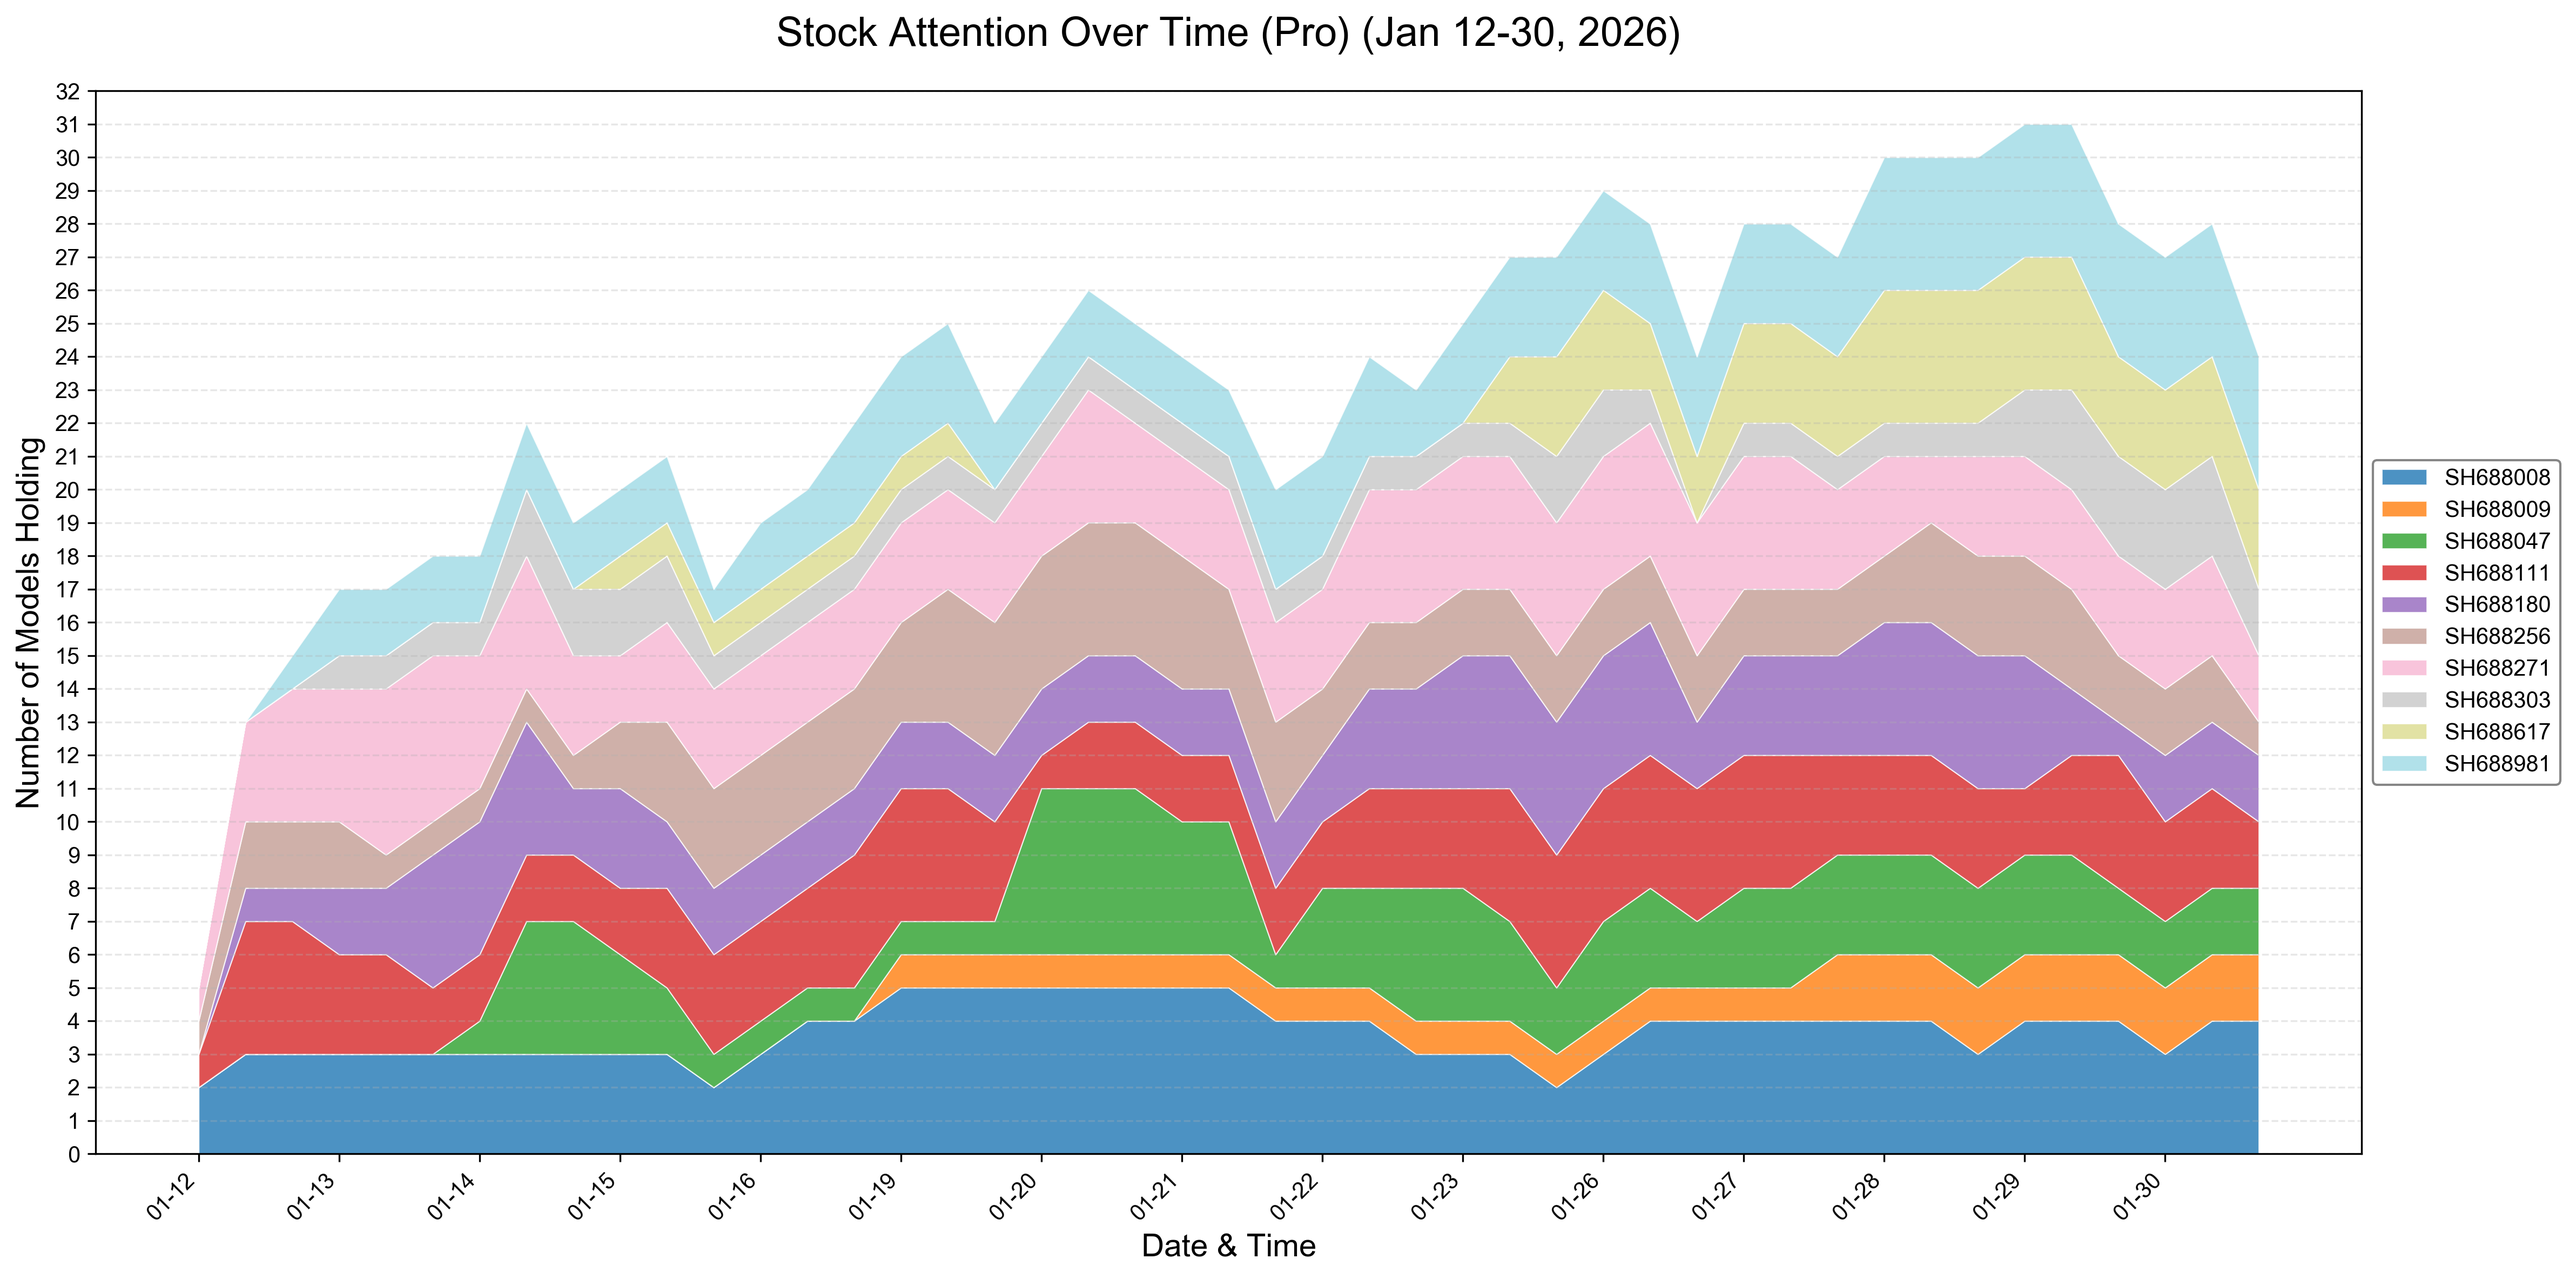
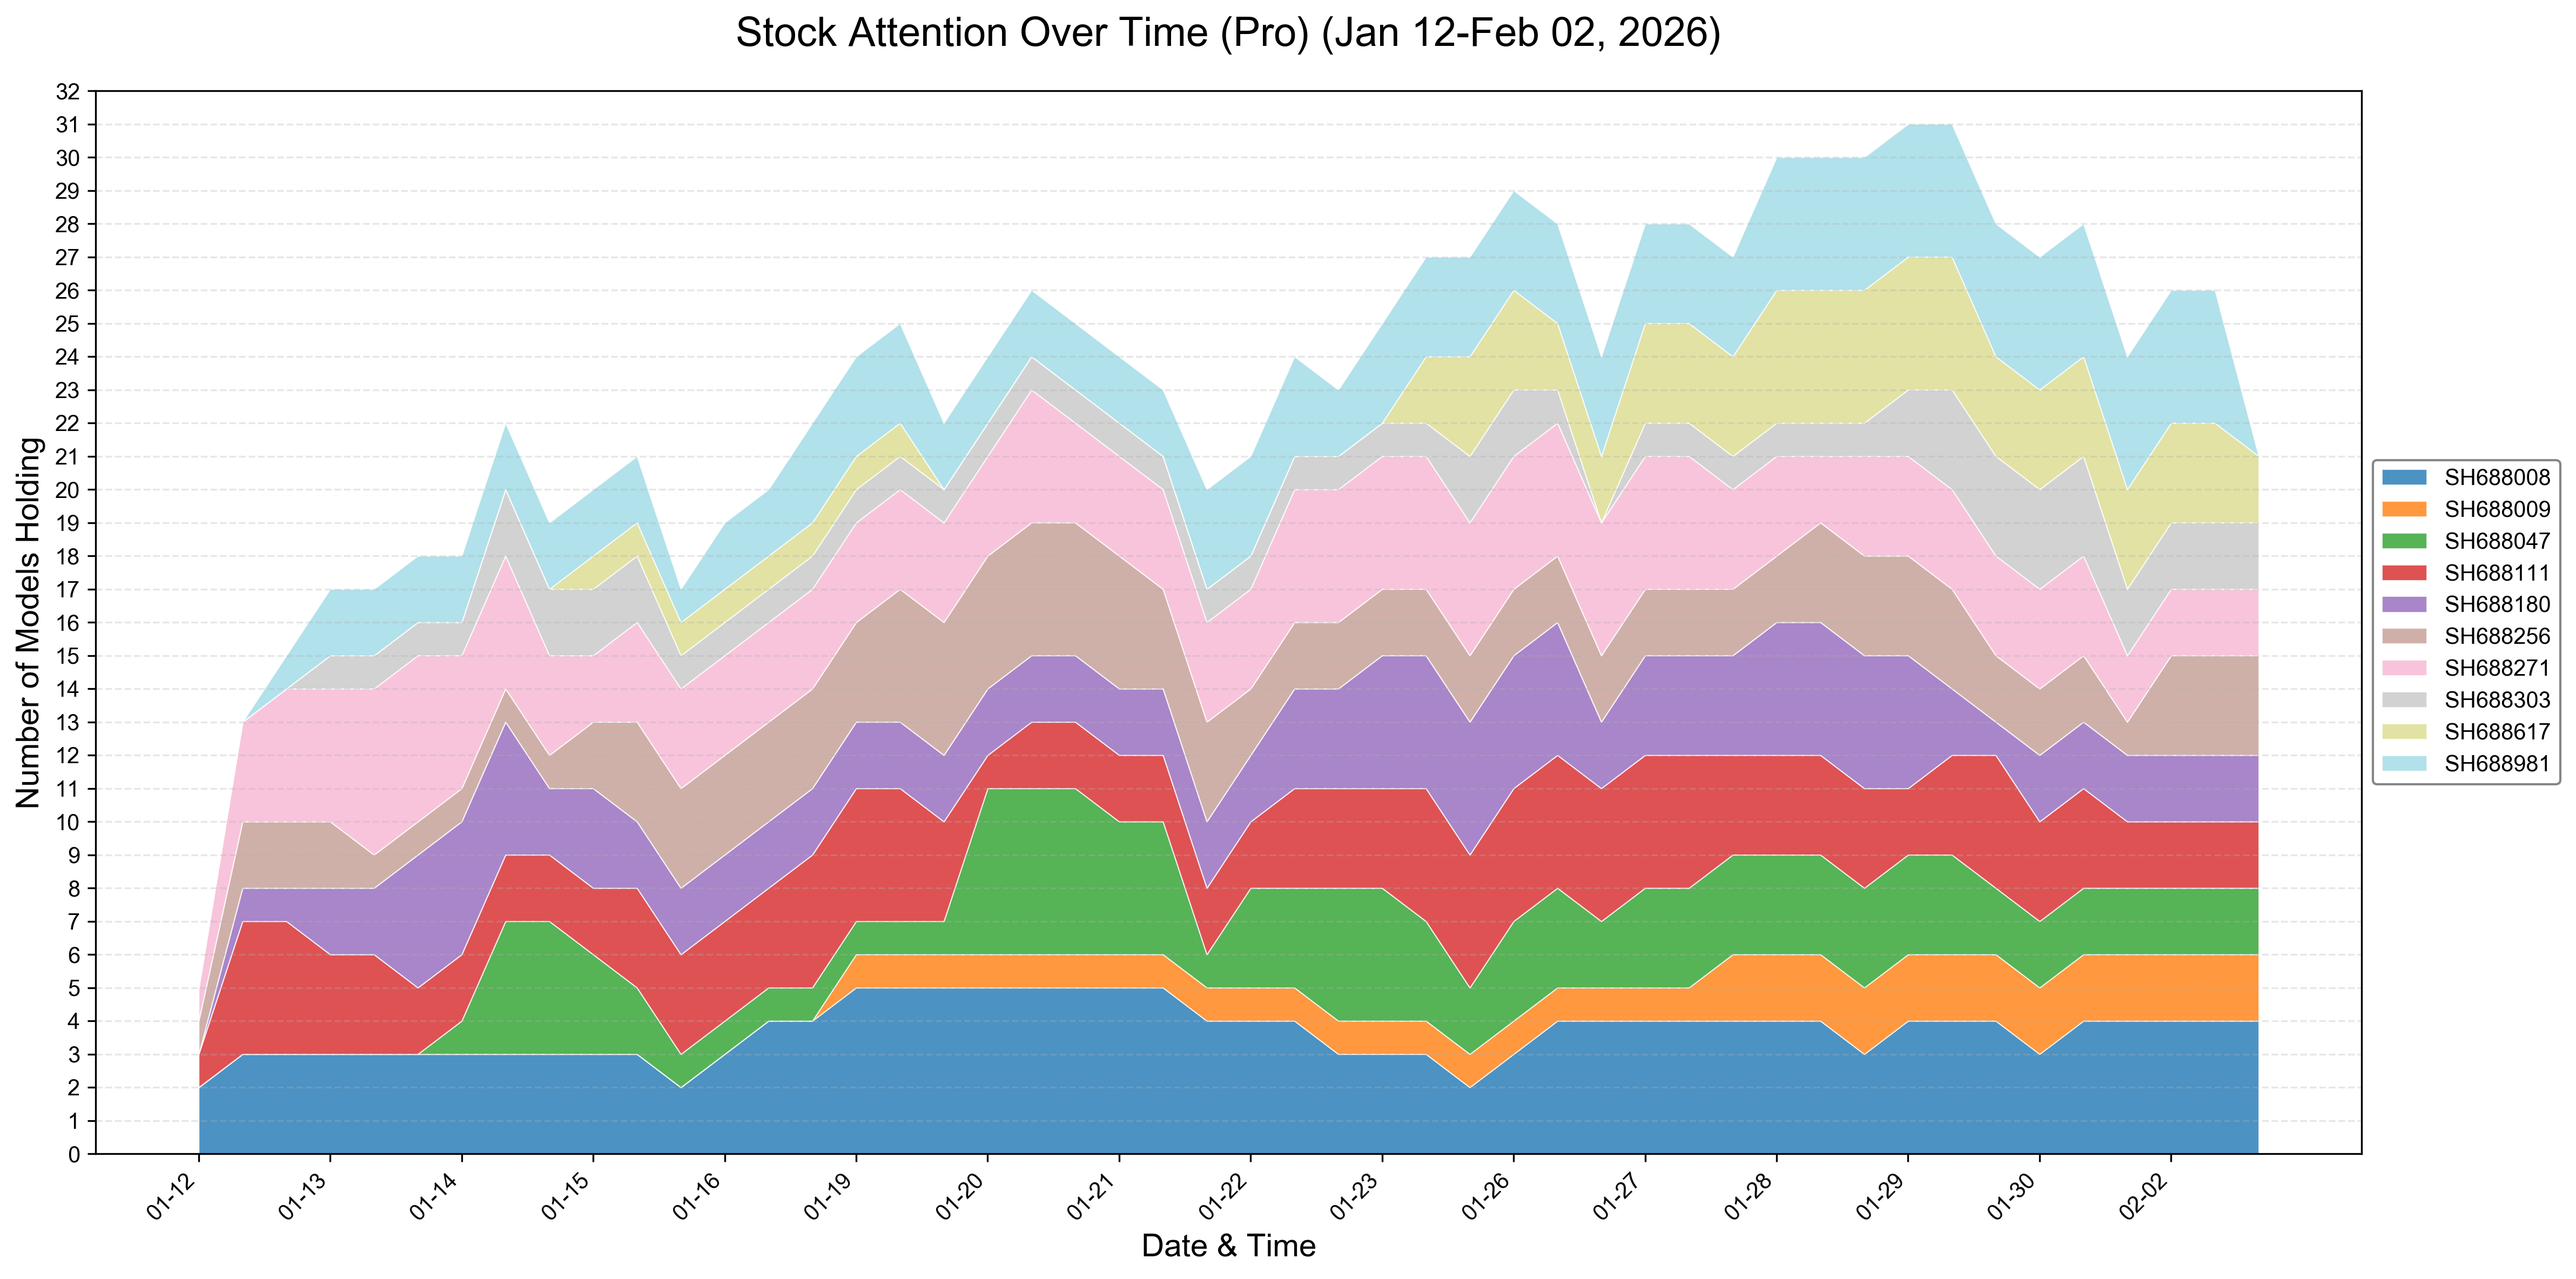
2.2

diff --git a/experiments/visualizations/performance_summary.md b/experiments/visualizations/performance_summary.md
@@ -2,8 +2,8 @@
 
 | Model | Latest Return | Max Return | Min Return | Volatility |
 |-------|---------------|------------|------------|------------|
-| Claude Haiku 4.5 | -3.09% | 0.23% | -5.43% | 1.24% |
-| DeepSeek Chat | -1.58% | 0.12% | -2.35% | 0.76% |
-| Gemini 2.5 Flash | 0.99% | 0.99% | -6.45% | 2.00% |
-| GPT-5.1 | 8.72% | 8.76% | -0.02% | 4.20% |
-| Qwen3-235b | -4.85% | -0.01% | -5.27% | 1.76% |
+| Claude Haiku 4.5 | -3.09% | 0.23% | -5.43% | 1.20% |
+| DeepSeek Chat | -1.58% | 0.12% | -2.35% | 0.74% |
+| Gemini 2.5 Flash | -0.24% | 0.99% | -6.45% | 1.98% |
+| GPT-5.1 | 8.41% | 8.76% | -0.02% | 4.28% |
+| Qwen3-235b | -4.86% | -0.01% | -5.27% | 1.79% |

diff --git a/README.md b/README.md
@@ -22,9 +22,9 @@
 
 ## 📊 Performance Comparison Results
 
-**Updated: January 30, 2026**
+**Updated: February 2, 2026**
 
-This section showcases comprehensive performance comparisons across Lite and Pro model versions, including benchmark analyses and portfolio dynamics during the trading period (January 12-30, 2026).
+This section showcases comprehensive performance comparisons across Lite and Pro model versions, including benchmark analyses and portfolio dynamics during the trading period (January 12-February 2, 2026).
 
 ### Dual Model Version Strategy
 
